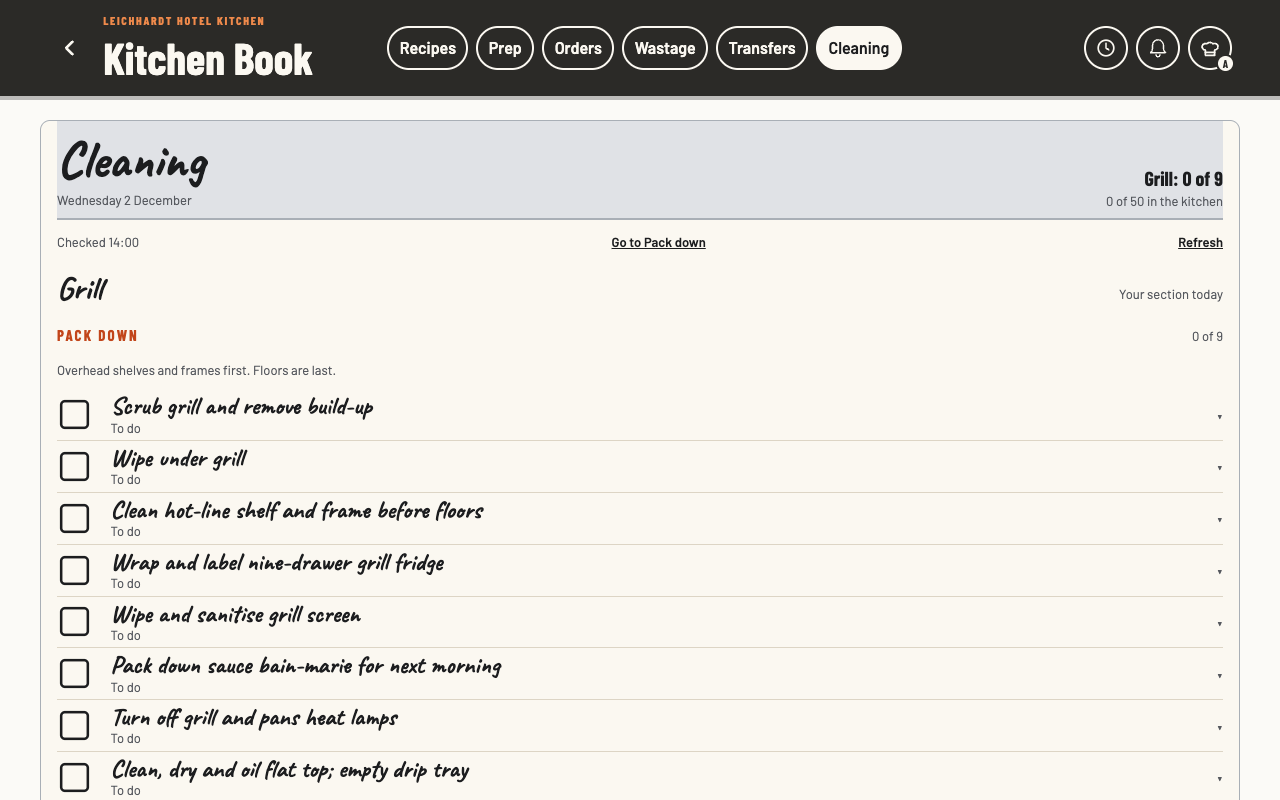
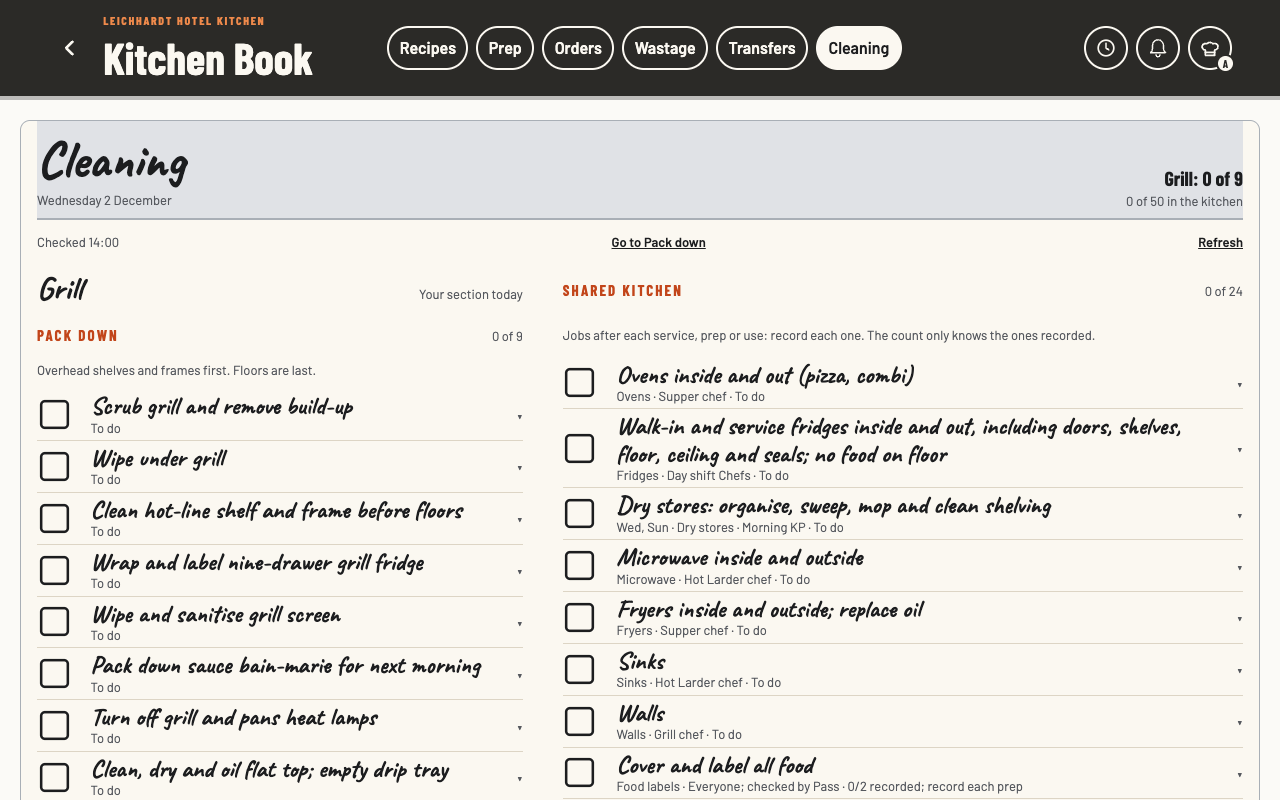
Cleaning: a section screen shows a cook's section and the rest of the kitchen side by side (design M, step 2) (#915)

diff --git a/tests/cleaning-sections.test.js b/tests/cleaning-sections.test.js
@@ -165,7 +165,7 @@ const meta = (p, code) => p.locator(row(code) + ' .nb-meta').innerText();
     ok(said === 'Grill|Your section today|Section clean|Pack down|Shared kitchen|Rest of the kitchen|Hot Larder: section clean|Hot larder: pack down|Pans: pack down|Fryers: section clean', width + ': the cook\'s section leads, Shared kitchen follows, then the rest, nothing folded (' + said + ')');
     ok(await rowsIn(p, '.cln-mine section:not([data-cln-packdown-group])') === 'sc-grill-01,sc-grill-02', width + ': Section clean holds the jobs that come round');
     ok(await rowsIn(p, '.cln-mine [data-cln-packdown-group="Grill"]') === 'pd-grill-01,pd-grill-04,sc-grill-03', width + ': the section\'s nightly job follows its numbered Pack down steps');
-    ok(await rowsIn(p, '.cln-body > [data-cln-packdown-group="Pans"]') === 'pd-pans-01,sc-pans-01', width + ': the same rule for another section: the kick oven door after the Pans steps');
+    ok(await rowsIn(p, '.cln-others > [data-cln-packdown-group="Pans"]') === 'pd-pans-01,sc-pans-01', width + ': the same rule for another section: the kick oven door after the Pans steps');
     ok(/Overhead shelves and frames first\. Floors are last\./.test(await p.locator('.cln-mine [data-cln-packdown-group="Grill"] .hint').innerText()), width + ': the floor reminder stays with the leading Pack down');
     ok(await p.locator('.cln-body [hidden], .cln-body details').count() === 0 && await p.locator('.cln-row').count() === 13, width + ': all 13 jobs are on the page, none behind a tap');
     ok(!(await L.overflow(p)) && await p.$$eval('.cln-row .nb-meta.cln-often', es => es.filter(e => e.scrollWidth > e.clientWidth + 1).length) === 0, width + ': no sideways scroll and no line that says how often cut off');
@@ -174,7 +174,7 @@ const meta = (p, code) => p.locator(row(code) + ' .nb-meta').innerText();
     // design M (head chef, 26 Nov 2026, docs/cleaning-look-options/brief.md): the frame above the jobs is cut
     const frame = await p.evaluate(() => {
       const count = document.querySelector('.cln-progress'), mine = document.querySelector('.cln-mine'), temp = document.querySelector('.cln-mine .cln-temp-line');
-      const shared = [...document.querySelectorAll('.cln-body > section')].find(s => /^Shared kitchen/.test(s.querySelector('.nb-hd').textContent));
+      const shared = [...document.querySelectorAll('.cln-others > section')].find(s => /^Shared kitchen/.test(s.querySelector('.nb-hd').textContent));
       return { count: count.innerText.replace(/\s+/g, ' ').trim(), handwritten: count.classList.contains('nb-prog'), toggle: !!document.querySelector('[data-cln="temperature"]'),
         temp: temp ? temp.textContent : '', tempLast: !!temp && mine.lastElementChild === temp, topHint: /Record every/.test((document.querySelector('.cln-coverage') || {}).textContent || ''),
         sharedHint: shared ? [...shared.querySelectorAll(':scope > .hint')].map(h => h.textContent).join('') : '', groupCount: (document.querySelector('.cln-mine .cln-group-count') || {}).textContent || '' };
@@ -239,7 +239,7 @@ const meta = (p, code) => p.locator(row(code) + ' .nb-meta').innerText();
     await listed(p); await L.waitFor(p, () => document.querySelectorAll('.cln-row').length === 4);
     let said = await outline(p);
     ok(said === 'Grill|Your section today|Section clean|Shared kitchen|Rest of the kitchen|Grill: pack down|Pans: section clean', 'one job moved: the section still leads with its own jobs, and its Pack down is not claimed (' + said + ')');
-    ok(await rowsIn(p, '[data-cln-packdown-group="Grill"]') === 'pd-grill-01' && await rowsIn(p, '.cln-body > section:last-child') === 'sc-grill-03', 'one job moved: a nightly job stays under its own section when no Pack down is tied to it');
+    ok(await rowsIn(p, '[data-cln-packdown-group="Grill"]') === 'pd-grill-01' && await rowsIn(p, '.cln-others > section:last-child') === 'sc-grill-03', 'one job moved: a nightly job stays under its own section when no Pack down is tied to it');
     await p.context().close();
 
     // the group left on Shared kitchen: nothing is tied, so the page keeps its usual order for a Grill cook too
@@ -270,7 +270,7 @@ const meta = (p, code) => p.locator(row(code) + ' .nb-meta').innerText();
     // a job recorded after each use (c16) is on the day: the plain hint goes with Shared kitchen, not above the jobs
     p = await L.open(b, '#/cleaning', { who: 'ann', width: 390, wait: 1000, clock: MON, init: pickedGrill, extra: loaded(whole.concat([['c16']])) });
     await listed(p); await L.waitFor(p, () => document.querySelectorAll('.cln-row').length === 14);
-    const at = await p.evaluate(() => { const shared = [...document.querySelectorAll('.cln-body > section')].find(s => /^Shared kitchen/.test(s.querySelector('.nb-hd').textContent)); const hint = shared && shared.querySelector(':scope > .hint'); return { hint: hint ? hint.textContent : '', top: /Record every/.test((document.querySelector('.cln-coverage') || {}).textContent || ''), count: (shared.querySelector('.cln-group-count') || {}).textContent }; });
+    const at = await p.evaluate(() => { const shared = [...document.querySelectorAll('.cln-others > section')].find(s => /^Shared kitchen/.test(s.querySelector('.nb-hd').textContent)); const hint = shared && shared.querySelector(':scope > .hint'); return { hint: hint ? hint.textContent : '', top: /Record every/.test((document.querySelector('.cln-coverage') || {}).textContent || ''), count: (shared.querySelector('.cln-group-count') || {}).textContent }; });
     ok(at.hint === 'Jobs after each service, prep or use: record each one. The count only knows the ones recorded.' && !at.top, 'repeats: the hint is one plain line under Shared kitchen, none above the jobs');
     ok(/^\d+ of \d+$/.test(at.count), 'repeats: Shared kitchen counts in words, without "+ repeats" beside the hint (' + at.count + ')');
   });
@@ -283,6 +283,49 @@ const meta = (p, code) => p.locator(row(code) + ' .nb-meta').innerText();
     await L.settle(p, 200);
     const old = await p.evaluate(() => { const b = document.querySelector('.cln-you .btn').getBoundingClientRect(); return { h: b.height, band: document.querySelector('.cln-you b').textContent, temp: !!document.querySelector('.cln-temp-line').textContent }; });
     ok(!(await L.overflow(p)) && old.h >= 44 && /^You: Pans/.test(old.band) && old.temp, 'old stylesheet: the band, its 44 px link and the temperature words still show, with no sideways scroll (' + Math.round(old.h) + ' px)');
+  });
+
+  await step('design M step 2: two columns on a section screen', async () => {
+    // a 1920 x 1080 touch station screen set to Grill, Ann on Pans: the screen's section left, the rest of the kitchen right
+    p = await L.open(b, '#/cleaning', { who: 'ann', width: 1920, height: 1080, touch: true, wait: 1000, clock: MON, deviceMode: 'shared', profile: screen('grill'), init: pickedPans, extra: loaded(whole) });
+    await listed(p); await L.waitFor(p, () => !!document.querySelector('.cln-split .cln-you'));
+    const wide = await p.evaluate(() => { const m = document.querySelector('.cln-split > .cln-mine').getBoundingClientRect(), o = document.querySelector('.cln-split > .cln-others').getBoundingClientRect(), page = document.querySelector('.page').getBoundingClientRect();
+      return { side: o.left > m.right && Math.abs(o.top - m.top) < 40, page: Math.round(page.width), rows: [...document.querySelectorAll('.cln-row')].filter(r => { const b = r.getBoundingClientRect(); return b.top >= 0 && b.bottom <= innerHeight; }).length }; });
+    ok(wide.side && wide.page > 1700 && !(await L.overflow(p)), 'wide: the screen\'s section and the rest sit side by side across the screen (' + wide.page + ' px)');
+    ok(wide.rows === 13, 'wide: every job of the day is in view on one 1920 x 1080 screen (' + wide.rows + ' of 13)');
+    ok(await outline(p) === 'This screen: Grill|Section clean|Pack down|Shared kitchen|Rest of the kitchen|Hot Larder: section clean|Hot larder: pack down|Pans: pack down|Fryers: section clean', 'wide: the order is the same as on a phone');
+    // the band's link lands on Pans pack down in the right column; a tick there through Who did this moves nothing
+    await p.click('.cln-you [data-cln="pack-down-jump"]');
+    ok(await p.evaluate(() => /Pans: pack down/.test(document.activeElement.textContent) && !!document.activeElement.closest('.cln-others')), 'wide: Go to Pans pack down lands on Pans pack down in the right column');
+    const pans = id('sc-pans-01'), y = () => p.evaluate(() => [...document.querySelectorAll('.nb-box')].map(b => Math.round(b.getBoundingClientRect().top + scrollY)).join(','));
+    const before = await y();
+    await p.evaluate(() => { __fake.mode = 'hold'; });
+    const box = '[data-cln="flow-quick"][data-id="' + pans + '"], [data-cln="tick"][data-id="' + pans + '"]';
+    await p.click(box);
+    await L.waitFor(p, () => !!document.querySelector('#cln-worker-sheet [data-cln-person], #cln-worker-sheet [data-cln-picker="others"]'));
+    await p.evaluate(sel => document.querySelector(sel).click(), box);   // a second tap while the sheet is open
+    ok(await p.locator('#cln-worker-sheet').count() === 1, 'double tap: one Who did this, not two');
+    if (await p.locator('[data-cln-picker="others"]').count() && await p.locator('[data-cln-picker="others"]').isVisible()) await p.click('[data-cln-picker="others"]');
+    await p.click('[data-cln-person="ann"]');
+    await L.waitFor(p, () => !!document.querySelector('.cln-row.is-pending'));   // held: Not sent, not Saved
+    await p.evaluate(() => { __fake.mode = 'ok'; __fake.release(); });   // the signal comes back, the held tick is sent
+    await L.waitFor(p, () => !LK_PREP.unsent());
+    const done = Object.values(await p.evaluate(() => __fake.dump())).filter(r => r.task === 'clean-template-sc-pans-01' && r.done);
+    // a held write, once sent, makes the page read the day again: wait for the list to be back
+    await L.waitFor(p, () => document.querySelectorAll('.cln-row').length === 13 && !!document.querySelector('.cln-you') && !document.querySelector('.cln-row.is-pending'));
+    ok(done.length === 1 && await y() === before, 'double tap: one record, and no box moved on the page (' + done.length + ')');
+    const counts = await p.evaluate(() => ({ band: document.querySelector('.cln-you b').textContent, heading: document.querySelector('[data-cln-packdown-group="Pans"] .cln-group-count').textContent }));
+    ok(counts.band.endsWith(counts.heading) && /1 of/.test(counts.heading), 'wide: the band and the Pans heading show the same count (' + counts.band + ' / ' + counts.heading + ')');
+    await p.context().close();
+    // only a cook's Cleaning page widens: another page at 1920 keeps the book's width
+    p = await L.open(b, '#/prep', { who: 'ann', width: 1920, height: 1080, wait: 1000, clock: MON });
+    await L.settle(p, 400);
+    ok(await p.evaluate(() => Math.round(document.querySelector('.page').getBoundingClientRect().width)) <= 1240, 'wide: Prep at 1920 keeps the book\'s width');
+    await p.context().close();
+    // a phone keeps one column: the cook's section above the rest
+    p = await L.open(b, '#/cleaning', { who: 'ann', width: 390, wait: 1000, clock: MON, init: pickedGrill, extra: loaded(whole) });
+    await listed(p); await L.waitFor(p, () => !!document.querySelector('.cln-split'));
+    ok(await p.evaluate(() => document.querySelector('.cln-others').getBoundingClientRect().top > document.querySelector('.cln-mine').getBoundingClientRect().bottom - 1), 'phone: one column, the cook\'s section first');
   });
 
   // ---- step 3: a shared kitchen screen set to a section ----

diff --git a/js/cleaning.js b/js/cleaning.js
@@ -307,14 +307,17 @@
       mine.filter(function (group) { return group.own; }).forEach(function (group) { html += groupHTML(group, at(group), 'Section clean', 'h4', ''); });
       mine.filter(function (group) { return group.pack; }).forEach(function (group) { html += groupHTML(group, at(group), 'Pack down', 'h4', 'Overhead shelves and frames first. Floors are last.'); });
       // the temperature reminder in full, after the cook's own jobs, not ahead of them (design M)
-      html += '<p class="hint cln-temp-line">' + esc(TEMPERATURE) + '</p></section>';
+      html += '<p class="hint cln-temp-line">' + esc(TEMPERATURE) + '</p></section><div class="cln-others">';
       grouped.filter(function (group) { return !group.own && !group.pack && !group.floors; }).forEach(function (group) { html += groupHTML(group, at(group), '', '', !group.own && plan.repeats ? REPEATS : undefined); });
       // the rest: each Pack down group in its usual order with its own section's clean above it, then any other section
       var rest = [], others = grouped.filter(function (group) { return mine.indexOf(group) < 0 && (group.own || group.pack); });
       others.filter(function (group) { return group.pack; }).forEach(function (group) { var own = group.sec && others.filter(function (other) { return other.own && other.sec === group.sec; })[0]; if (own) rest.push(own); rest.push(group); });
       others.forEach(function (group) { if (rest.indexOf(group) < 0) rest.push(group); });
       if (rest.length) html += '<h3 class="cln-rest-title">Rest of the kitchen</h3>' + rest.map(function (group) { return groupHTML(group, at(group), group.name + (group.pack ? ': pack down' : ': section clean'), 'h4', ''); }).join('');
-      return html + grouped.filter(function (group) { return group.floors; }).map(function (group) { return groupHTML(group, at(group)); }).join('');
+      /* Design M step 2 (head chef, 26 Nov 2026): the cook's section and the rest of the kitchen as two blocks, side by side
+         from 1100 px (css/app.css .cln-split), so a section screen shows the whole width. The order is the same; only the
+         layout changes, and without the new rules (an older saved stylesheet) it is the one column it was. */
+      return '<div class="cln-split">' + html + grouped.filter(function (group) { return group.floors; }).map(function (group) { return groupHTML(group, at(group)); }).join('') + '</div></div>';
     }
     var regular = '', pack = '', floors = '';
     grouped.forEach(function (group, i) { var html = groupHTML(group, i); if (group.pack) pack += html; else if (group.floors) floors += html; else regular += html; });

diff --git a/css/app.css b/css/app.css
@@ -5716,6 +5716,14 @@ html.tm-open, html.tm-open body { overflow: hidden; }
 .cln-you { display: flex; flex-wrap: wrap; align-items: center; justify-content: space-between; gap: .5rem .8rem; margin: .5rem 0 .2rem; padding: .55rem .8rem; border: 2px solid var(--ink); border-radius: 8px; background: var(--paper); }
 .cln-you b { font: 700 1.5rem/1.2 var(--display); overflow-wrap: anywhere; }
 .cln-you .btn { min-height: 44px; margin: 0; }
+/* Design M step 2: from 1100 px a cook's section and the rest of the kitchen side by side, not sticky, across the screen's
+   width (the page is held to 1240 px elsewhere; only a cook's Cleaning page lifts it). */
+@media (min-width: 1100px) {
+  .page:has(#cleaning-root .cln-split) { max-width: 1880px; }
+  .cln-split { display: grid; grid-template-columns: minmax(0, 5fr) minmax(0, 7fr); column-gap: 2.5rem; align-items: start; }
+  .cln-split > .cln-mine > .cln-you:first-child, .cln-split > .cln-mine > .cln-mine-title:first-child { margin-top: .4rem; }
+  .cln-split > .cln-others .nb-row { max-width: 60rem; }
+}
 .cln-page:not(.cln-chef-page) .cln-group-count { text-transform: none; letter-spacing: 0; }
 .cln-temp-line { margin: .6rem 0 .2rem; padding-top: .5rem; border-top: 1px solid var(--line); font-size: .875rem; color: var(--ink); }
 .cln-row { flex-wrap: nowrap; }

diff --git a/tests/design-patterns.test.js b/tests/design-patterns.test.js
@@ -49,7 +49,7 @@ const CLASSES = [
   // section cleaning (25 Nov 2026): the small line that says how often, the Load panel and the first date notice
   'cln-often', 'cln-section-import', 'cln-first-date', 'cln-mine', 'cln-mine-title', 'cln-rest-title',
   // design M (26 Nov 2026): a cook's count in plain ink, a station screen's band, the temperature line after the cook's jobs
-  'cln-count', 'cln-you', 'cln-temp-line',
+  'cln-count', 'cln-you', 'cln-temp-line', 'cln-split', 'cln-others',
   'dr-notebook', 'dr-book', 'dr-bookhead', 'dr-usual', 'dr-work', 'dr-spine', 'dr-people',
   'is-leaving', 'nb-offw', 'nb-fnoff', 'fn-next-off', 'nb-forfn', 'nb-tick-status', 'p-toast-chip',
   'fn-ahead', 'fn-ahead-b', 'fn-ahead-l', 'fn-ahead-t', 'fn-ahead-n', 'fn-ahead-p', 'fn-ahead-more', 'fn-ahead-hide', 'is-ahead',

diff --git a/README.md b/README.md
@@ -93,7 +93,7 @@ The [Cleaning page](docs/cleaning-schedule.md) (extended 9 November 2026) keeps 
 
 **Section cleaning (25 November 2026).** In Repeat tasks, **Load section cleaning** adds the head chef's own weekly, monthly and extra daily jobs for Grill, Pans, Fryers with salads and dessert, and Hot larder: 21 jobs that Pack down does not already hold, each one tap. The chef chooses the kitchen section for each group before loading. A job that is not nightly now says how often on its row ("Every Monday", "Every 4 weeks"), and a section's own jobs sit under "Grill: section clean". Monthly jobs come up only after a chef sets their first date; the page names the ones still waiting. Jobs with no day in his list are added by a chef in Add cleaning task. For a cook, the page opens on the section they are on today (26 November 2026): its section clean, then its Pack down, then Shared kitchen and the rest of the kitchen, all open. A Pack down follows the section a chef chose for that group at Load. A shared kitchen screen can be set to one section (Settings, **This screen's section**, head chef only), so the screen at a station opens Cleaning on that station's jobs for whoever signs in, with the rest of the kitchen below. [The contract](docs/cleaning-schedule.md#section-cleaning-25-november-2026), [the designs and council](docs/cleaning-sections-options/brief.md).
 
-**Cleaning's look, design M, step 1 (26 November 2026).** The head chef kept the name Cleaning and chose design M ([brief](docs/cleaning-look-options/brief.md)). On a cook's page the frame above the jobs is shorter: the count is in plain ink ("Grill: 0 of 9", the kitchen's under it) instead of the orange handwritten "0/50", the temperature reminder is in full after the cook's own jobs, the repeats hint is one plain line under Shared kitchen, and a row no longer repeats the section its heading says. On a 390 px phone the first box moves from 454 to 344 px (6 jobs in view, not 5). On a station screen the heading reads "This screen: Grill", and a cook from another section sees "You: Pans, pack down 0 of 11" with one Go to Pans pack down. Chefs' views are unchanged. Step 2 (two columns on wide screens) follows.
+**Cleaning's look, design M, step 1 (26 November 2026).** The head chef kept the name Cleaning and chose design M ([brief](docs/cleaning-look-options/brief.md)). On a cook's page the frame above the jobs is shorter: the count is in plain ink ("Grill: 0 of 9", the kitchen's under it) instead of the orange handwritten "0/50", the temperature reminder is in full after the cook's own jobs, the repeats hint is one plain line under Shared kitchen, and a row no longer repeats the section its heading says. On a 390 px phone the first box moves from 454 to 344 px (6 jobs in view, not 5). On a station screen the heading reads "This screen: Grill", and a cook from another section sees "You: Pans, pack down 0 of 11" with one Go to Pans pack down. Chefs' views are unchanged. Step 2: from 1100 px a cook's section and the rest of the kitchen sit side by side across the screen, so a 1920 x 1080 section screen shows 21 jobs instead of 9 (measured with the head chef's lists in the test kitchen); phones and the tablet keep one column.
 
 On the staff Cleaning page, **Go to Pack down** sits beside the latest check time when there is pack-down work due that day.
 

diff --git a/docs/design-patterns.md b/docs/design-patterns.md
@@ -202,4 +202,4 @@ The 25 November 2026 section cleaning step (`docs/cleaning-sections-options/brie
 
 Your section first (26 November 2026, step 2): for a cook with a section that has work today, `.cln-mine` leads the page. `.cln-mine-title` is the section's name in the page's handwriting with "Your section today" small on the same line; under it the existing headings read "Section clean" and "Pack down". `.cln-rest-title` ("Rest of the kitchen") stands over every other section, each as "Name: section clean" and "Name: pack down". Nothing is folded on the staff page. Everyone else keeps the usual order.
 
-Design M (head chef, 26 November 2026, [brief](cleaning-look-options/brief.md)), step 1: on a cook's page the done count is `.cln-count` in plain ink, not the handwritten orange `.nb-prog` the chefs keep: "Grill: 0 of 9" with "0 of 50 in the kitchen" small under it, or only the kitchen's on a station screen. Group counts read "0 of 9". A row's small line leaves out the section its heading already says. The temperature reminder is `.cln-temp-line`, the contract words in full at the end of `.cln-mine`, not a link above the jobs; the repeats hint is one plain line under Shared kitchen. On a station screen `.cln-mine-title.is-screen` reads "This screen: Grill" at a larger size, and a cook from another section gets `.cln-you`: "You: Pans, pack down 0 of 11" with the one Go to Pans pack down (an outline `.btn`, 44 px); the read line then drops its own link. Nothing folds and nothing moves on a tick. New classes only, so an older saved page ignores them.
+Design M (head chef, 26 November 2026, [brief](cleaning-look-options/brief.md)), step 1: on a cook's page the done count is `.cln-count` in plain ink, not the handwritten orange `.nb-prog` the chefs keep: "Grill: 0 of 9" with "0 of 50 in the kitchen" small under it, or only the kitchen's on a station screen. Group counts read "0 of 9". A row's small line leaves out the section its heading already says. The temperature reminder is `.cln-temp-line`, the contract words in full at the end of `.cln-mine`, not a link above the jobs; the repeats hint is one plain line under Shared kitchen. On a station screen `.cln-mine-title.is-screen` reads "This screen: Grill" at a larger size, and a cook from another section gets `.cln-you`: "You: Pans, pack down 0 of 11" with the one Go to Pans pack down (an outline `.btn`, 44 px); the read line then drops its own link. Nothing folds and nothing moves on a tick. New classes only, so an older saved page ignores them. Step 2: the cook's page is `.cln-split`, `.cln-mine` then `.cln-others` (Shared kitchen, the rest of the kitchen, floors); from 1100 px they sit side by side (5 : 7, not sticky) and only that page lifts `.page` from 1240 to 1880 px, so a section screen shows the whole day. Below 1100 px, and with an older saved stylesheet, it is the one column it was.
